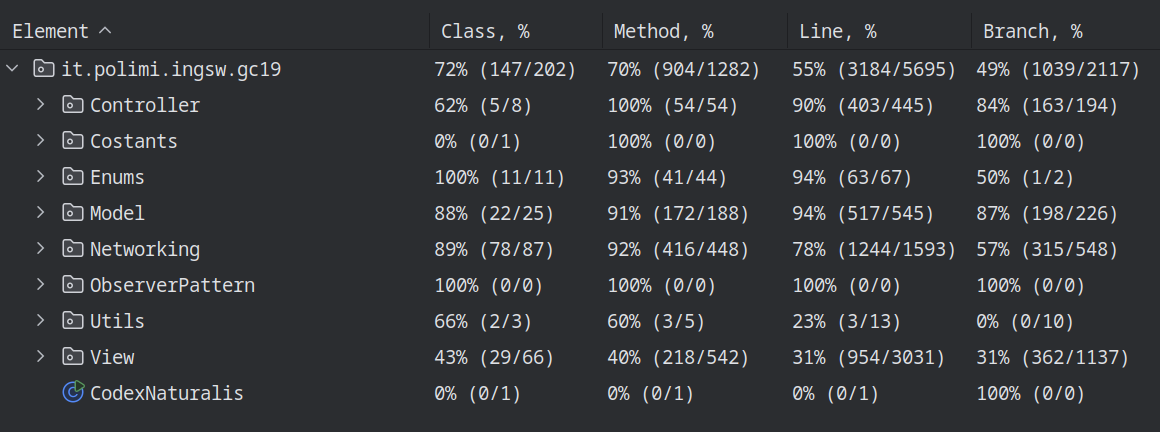
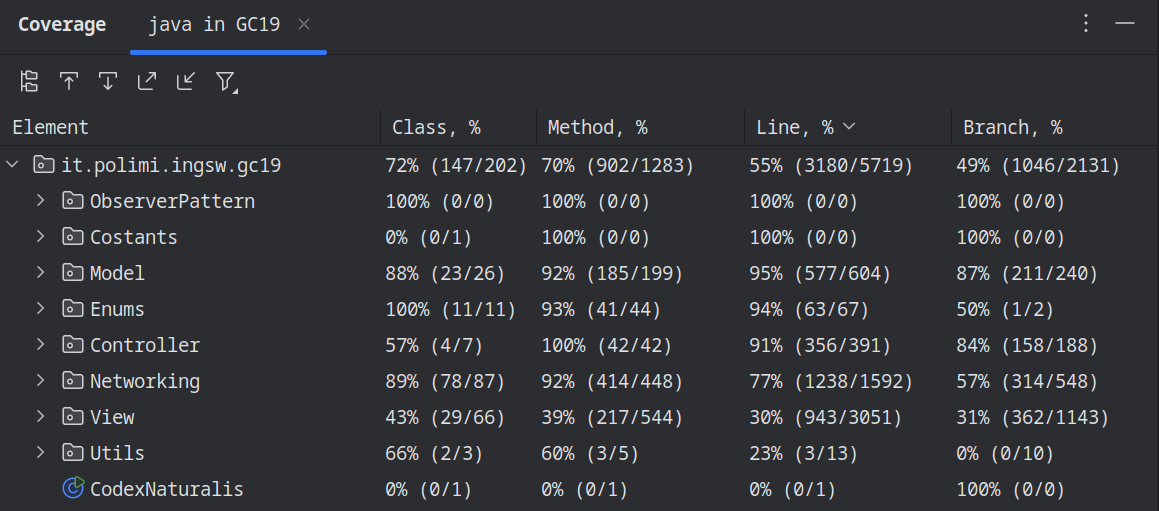
Update coverage and add to README.md

diff --git a/README.md b/README.md
@@ -6,7 +6,7 @@
 Digital version of the board game *Codex Naturalis*.
 </div>
 
-# Screenshots
+## Screenshots
 <p float="left" align="center">
   <img src="assets/lobby.png" width="45%" />
   <img src="assets/setup.png" width="45%" /> 
@@ -46,6 +46,14 @@ Those are the functionalities we have implemented:
 | Chat                         |  :white_check_mark:  |
 
 </div>
+
+# Code Coverage
+
+![Coverage.png](deliverables/Coverage.png)
+
+To obtain code coverage, right click on `src/test/java` folder and run with Coverage
+
+![howtocover.jpg](assets/howtocover.jpg)
 
 # How to compile
 
